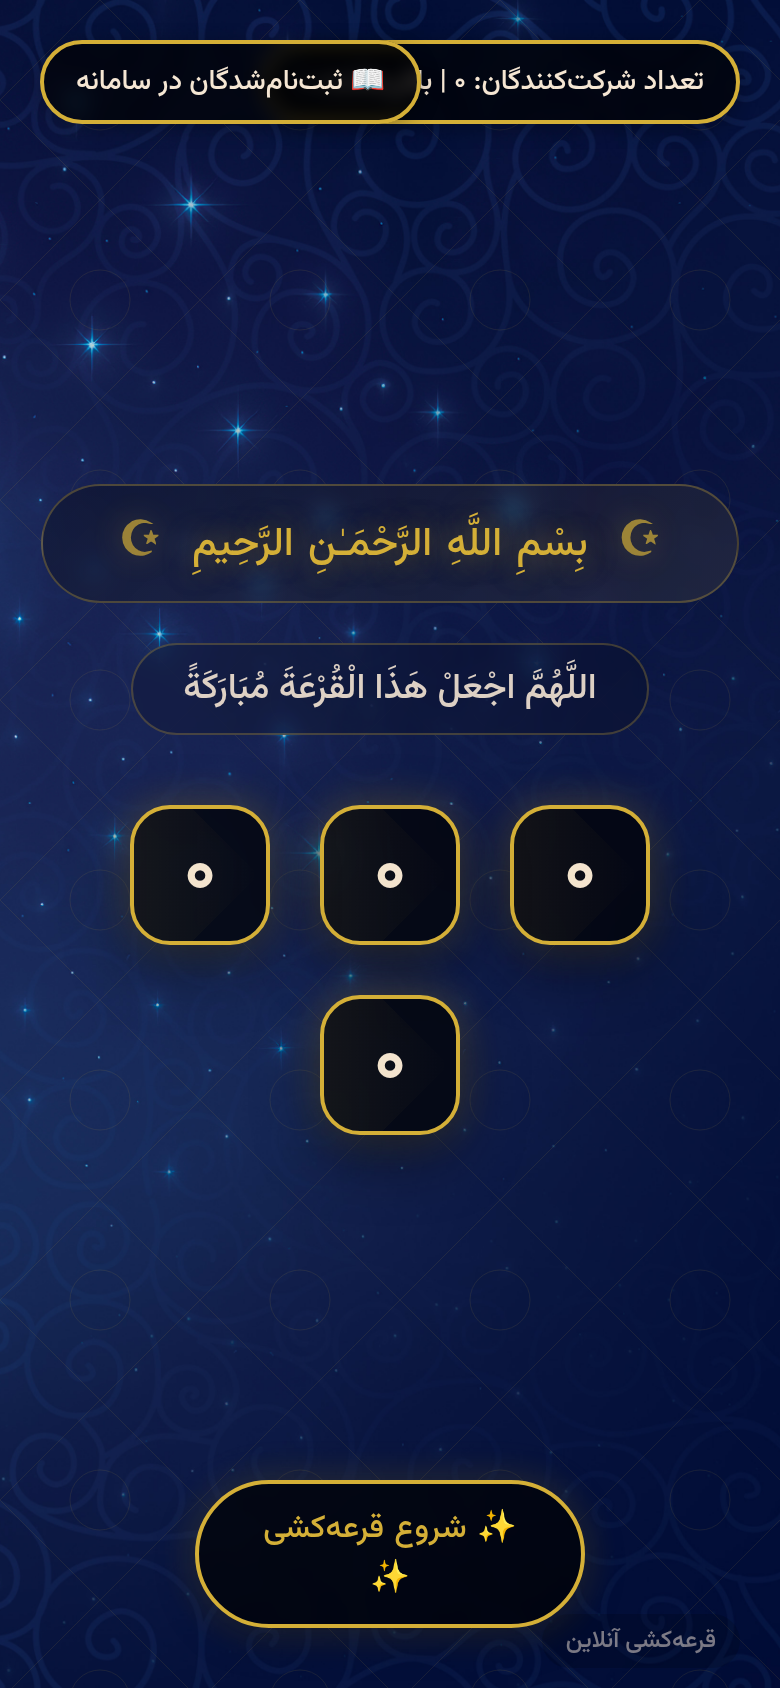
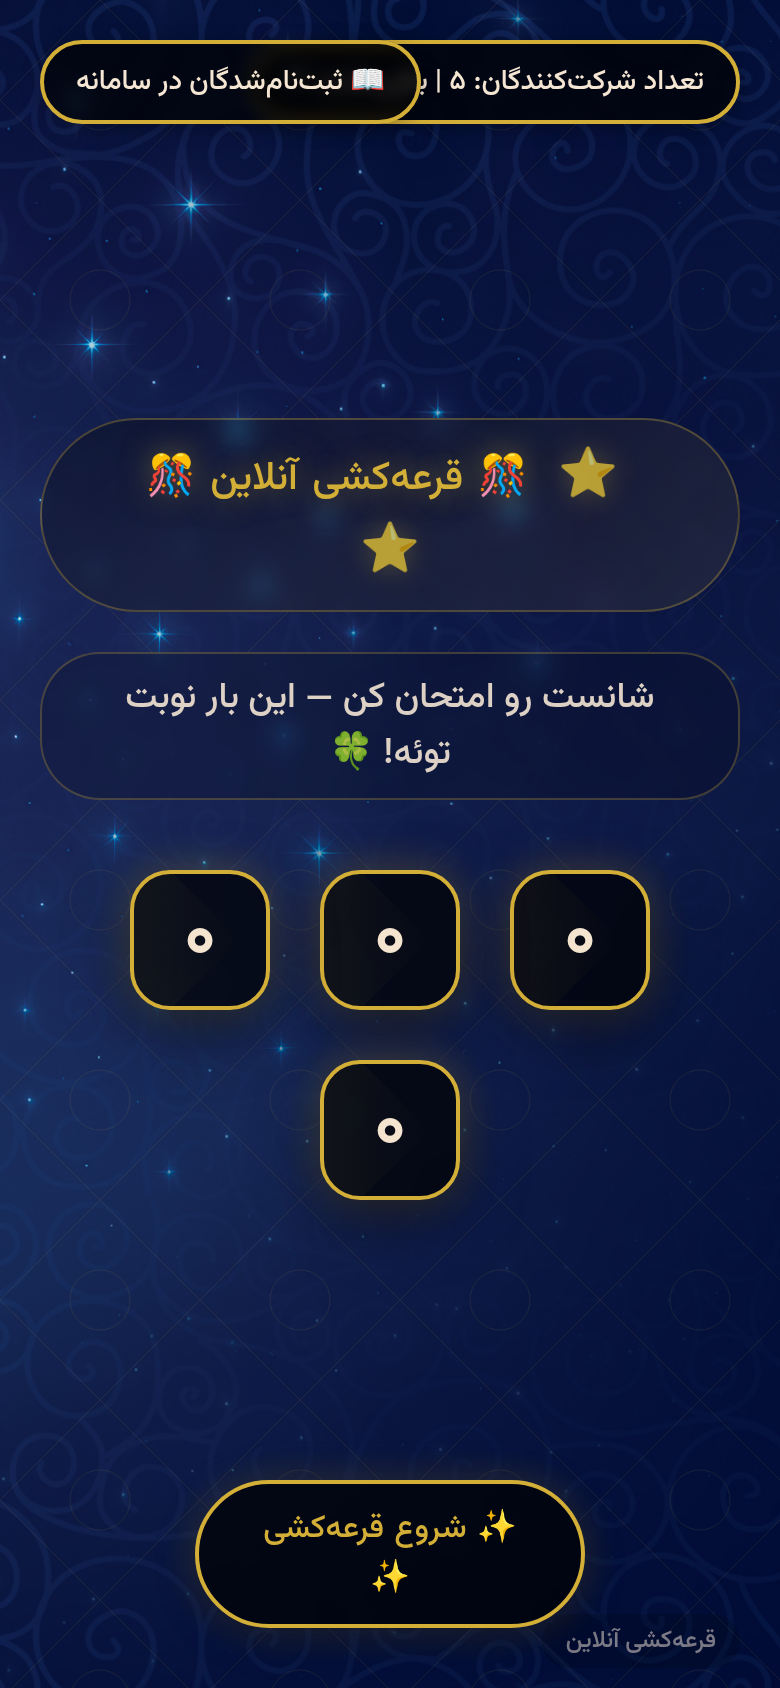
Generalize branding, add full screenshot set, polish texts
- Remove religious texts (بسم الله, دعا, صلوات) → neutral lottery texts
- Add lottery tagline 'شانست رو امتحان کن — این بار نوبت توئه!'
- Replace ☪ decorative crescent with ⭐
- README: full screenshot set (desktop, mobile, admin, winners, archive)

diff --git a/index.php b/index.php
@@ -171,7 +171,7 @@ $participants = readParticipants();
 
         .bismillah::before,
         .bismillah::after {
-            content: '☪';
+            content: '⭐';
             font-family: 'Vazir Matn', sans-serif;
             font-size: 24px;
             margin: 0 15px;
@@ -588,11 +588,11 @@ $participants = readParticipants();
 <body>
     <div class="container" id="mainContainer">
         <div class="bismillah">
-            بِسْمِ اللَّهِ الرَّحْمَـٰنِ الرَّحِيمِ
+            🎊 قرعهکشی آنلاین 🎊
         </div>
 
         <div class="dua-text">
-            اللَّهُمَّ اجْعَلْ هَذَا الْقُرْعَةَ مُبَارَكَةً
+            شانست رو امتحان کن — این بار نوبت توئه! 🍀
         </div>
 
         <div class="participants-count" id="participantsCount">
@@ -717,7 +717,7 @@ $participants = readParticipants();
             const eligibleParticipants = participants.filter(p => !previousWinners.includes(p.national_id));
             
             if (eligibleParticipants.length === 0) {
-                alert('همگی برگزیده شدند، اللهم صل علی محمد و آل محمد');
+                alert('همگی برگزیده شدند! 🎉');
                 return null;
             }
             

diff --git a/README.md b/README.md
@@ -4,8 +4,11 @@
 >
 > **Persian (Farsi) RTL lottery draw system** with a full admin panel — add/import participants, animated lottery draw, save winners, no database, just plain PHP.
 
-![نمای سامانه قرعه کشی](docs/screenshot.png)
-![نمای موبایل](docs/screenshot-mobile.png)
+![نمای سامانه قرعه کشی - دسکتاپ](docs/screenshot.png)
+![نمای سامانه قرعه کشی - موبایل](docs/screenshot-mobile.png)
+![پنل مدیریت سامانه قرعه کشی](docs/screenshot-admin.png)
+![لیست برندگان](docs/screenshot-winners.png)
+![بایگانی قرعه کشی](docs/screenshot-archive.png)
 
 ## سامانه قرعه کشی چیست؟
 
